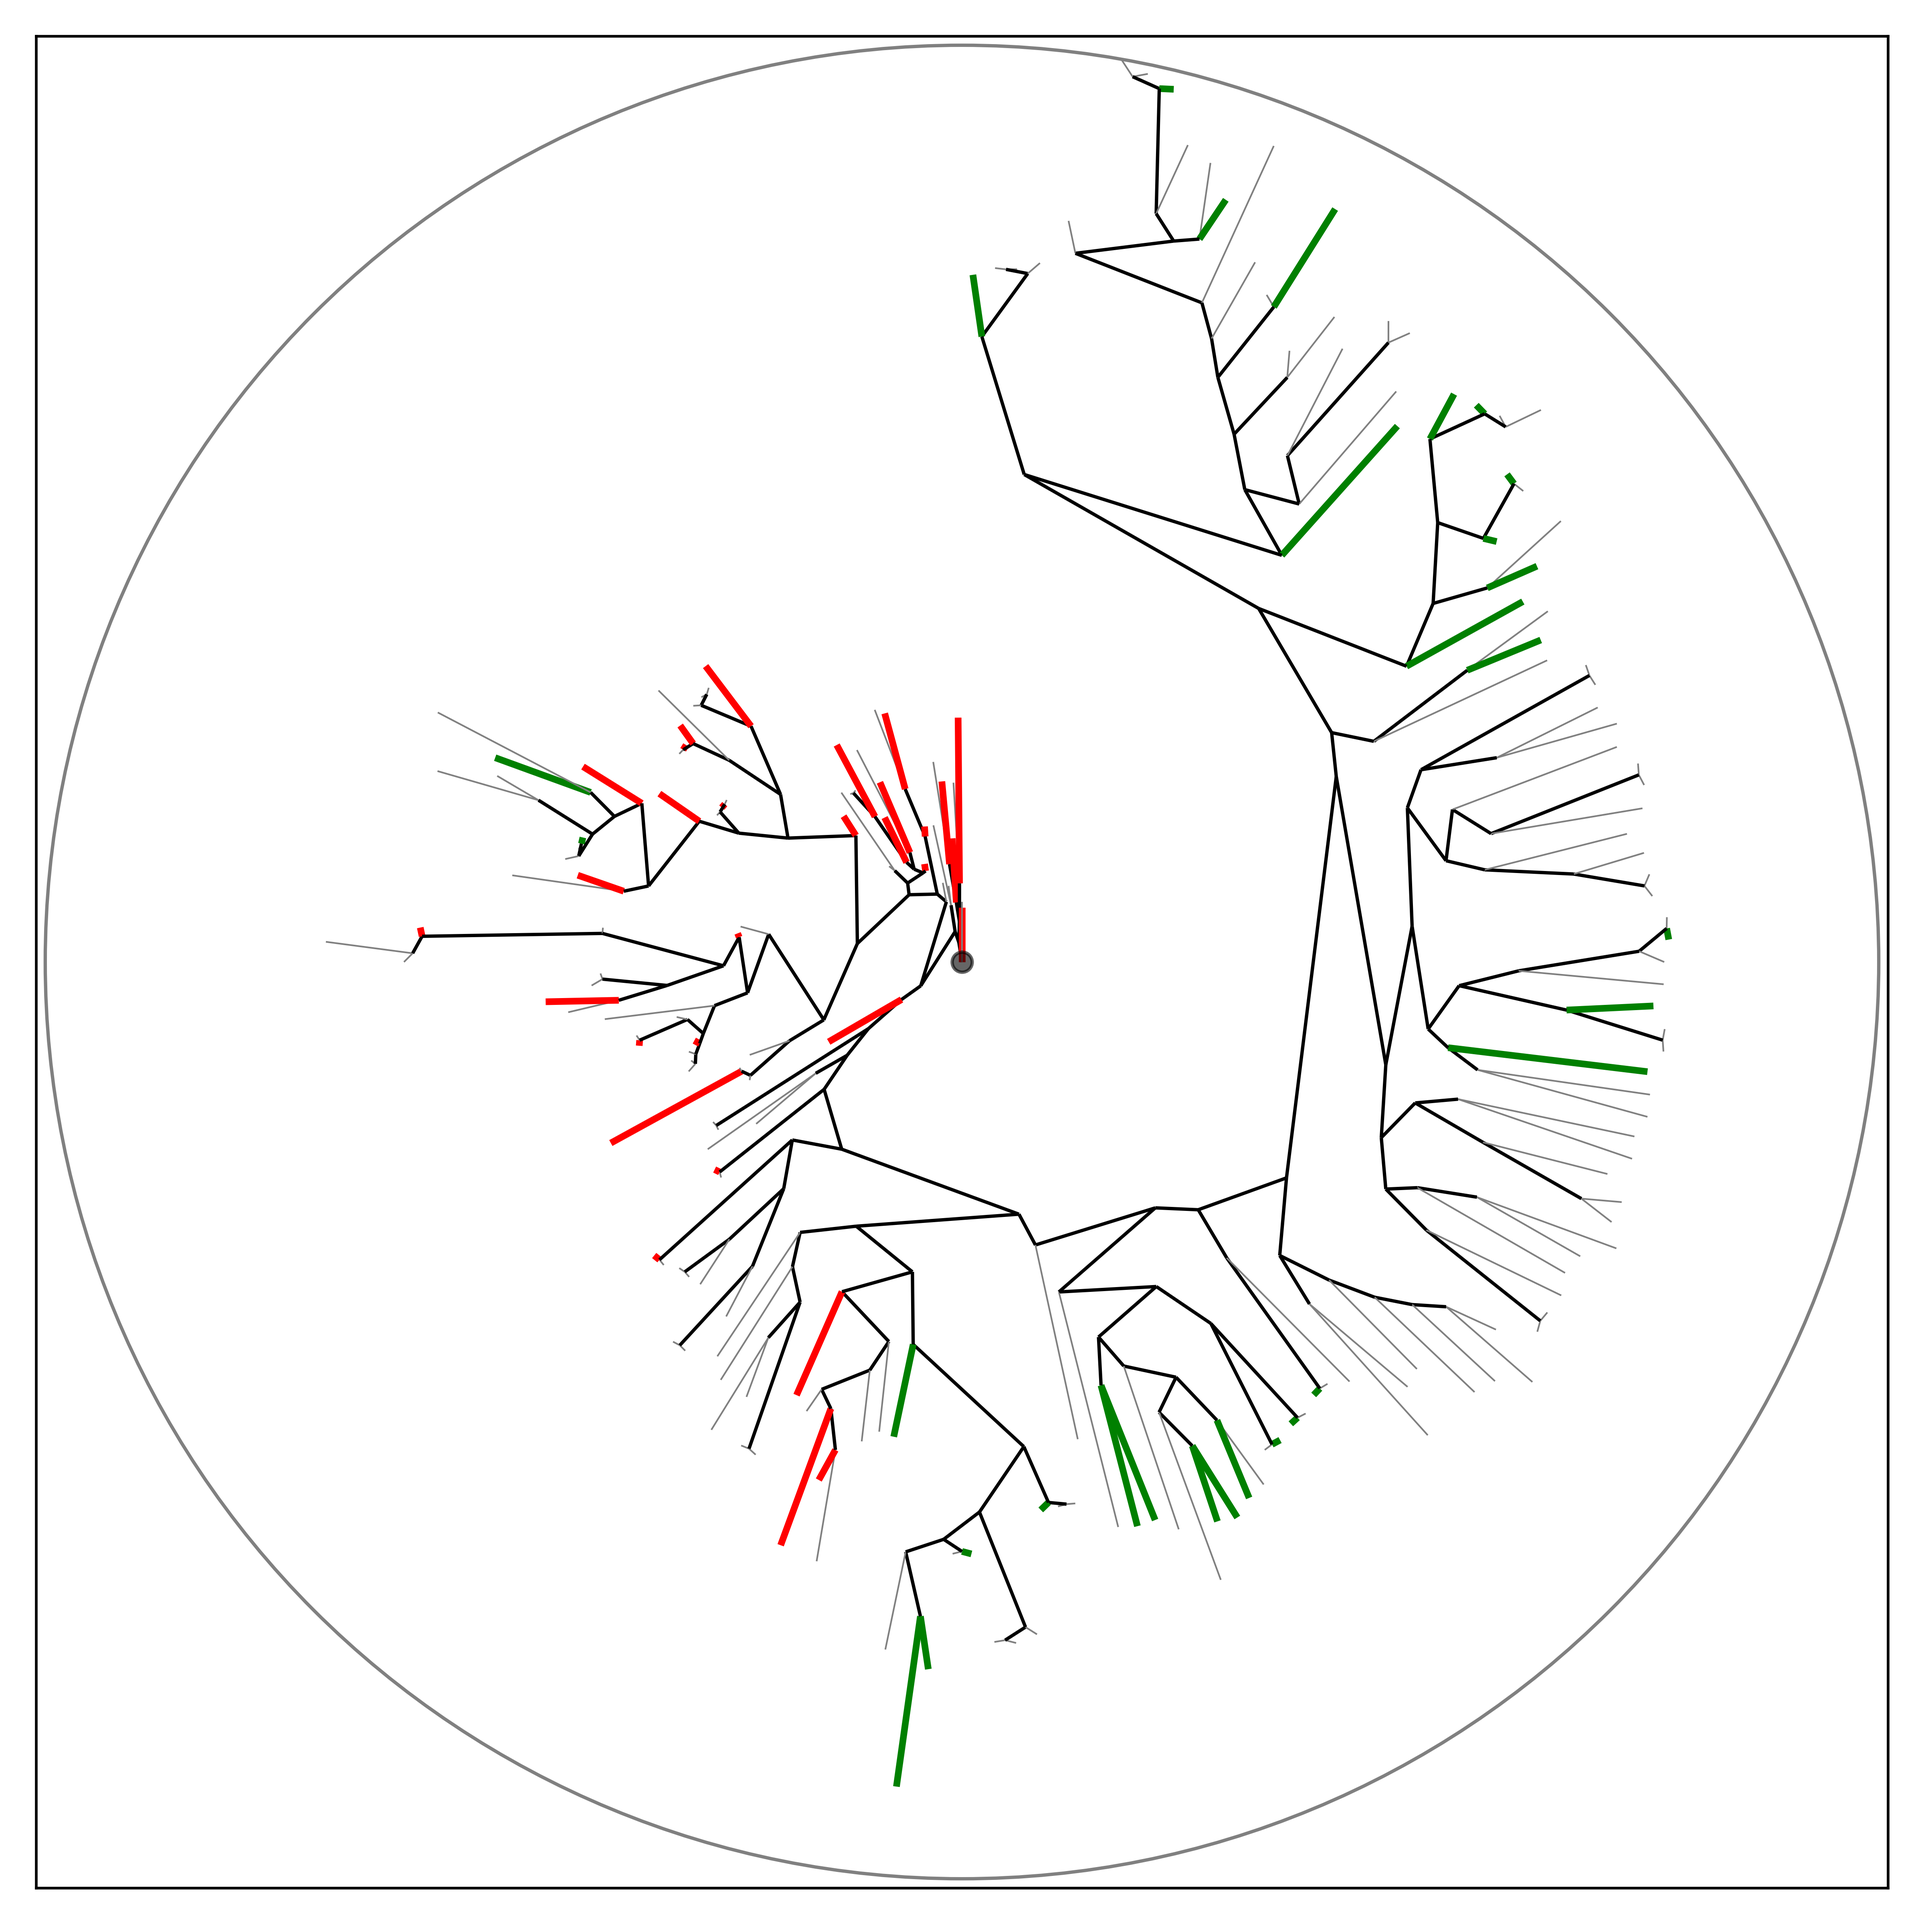
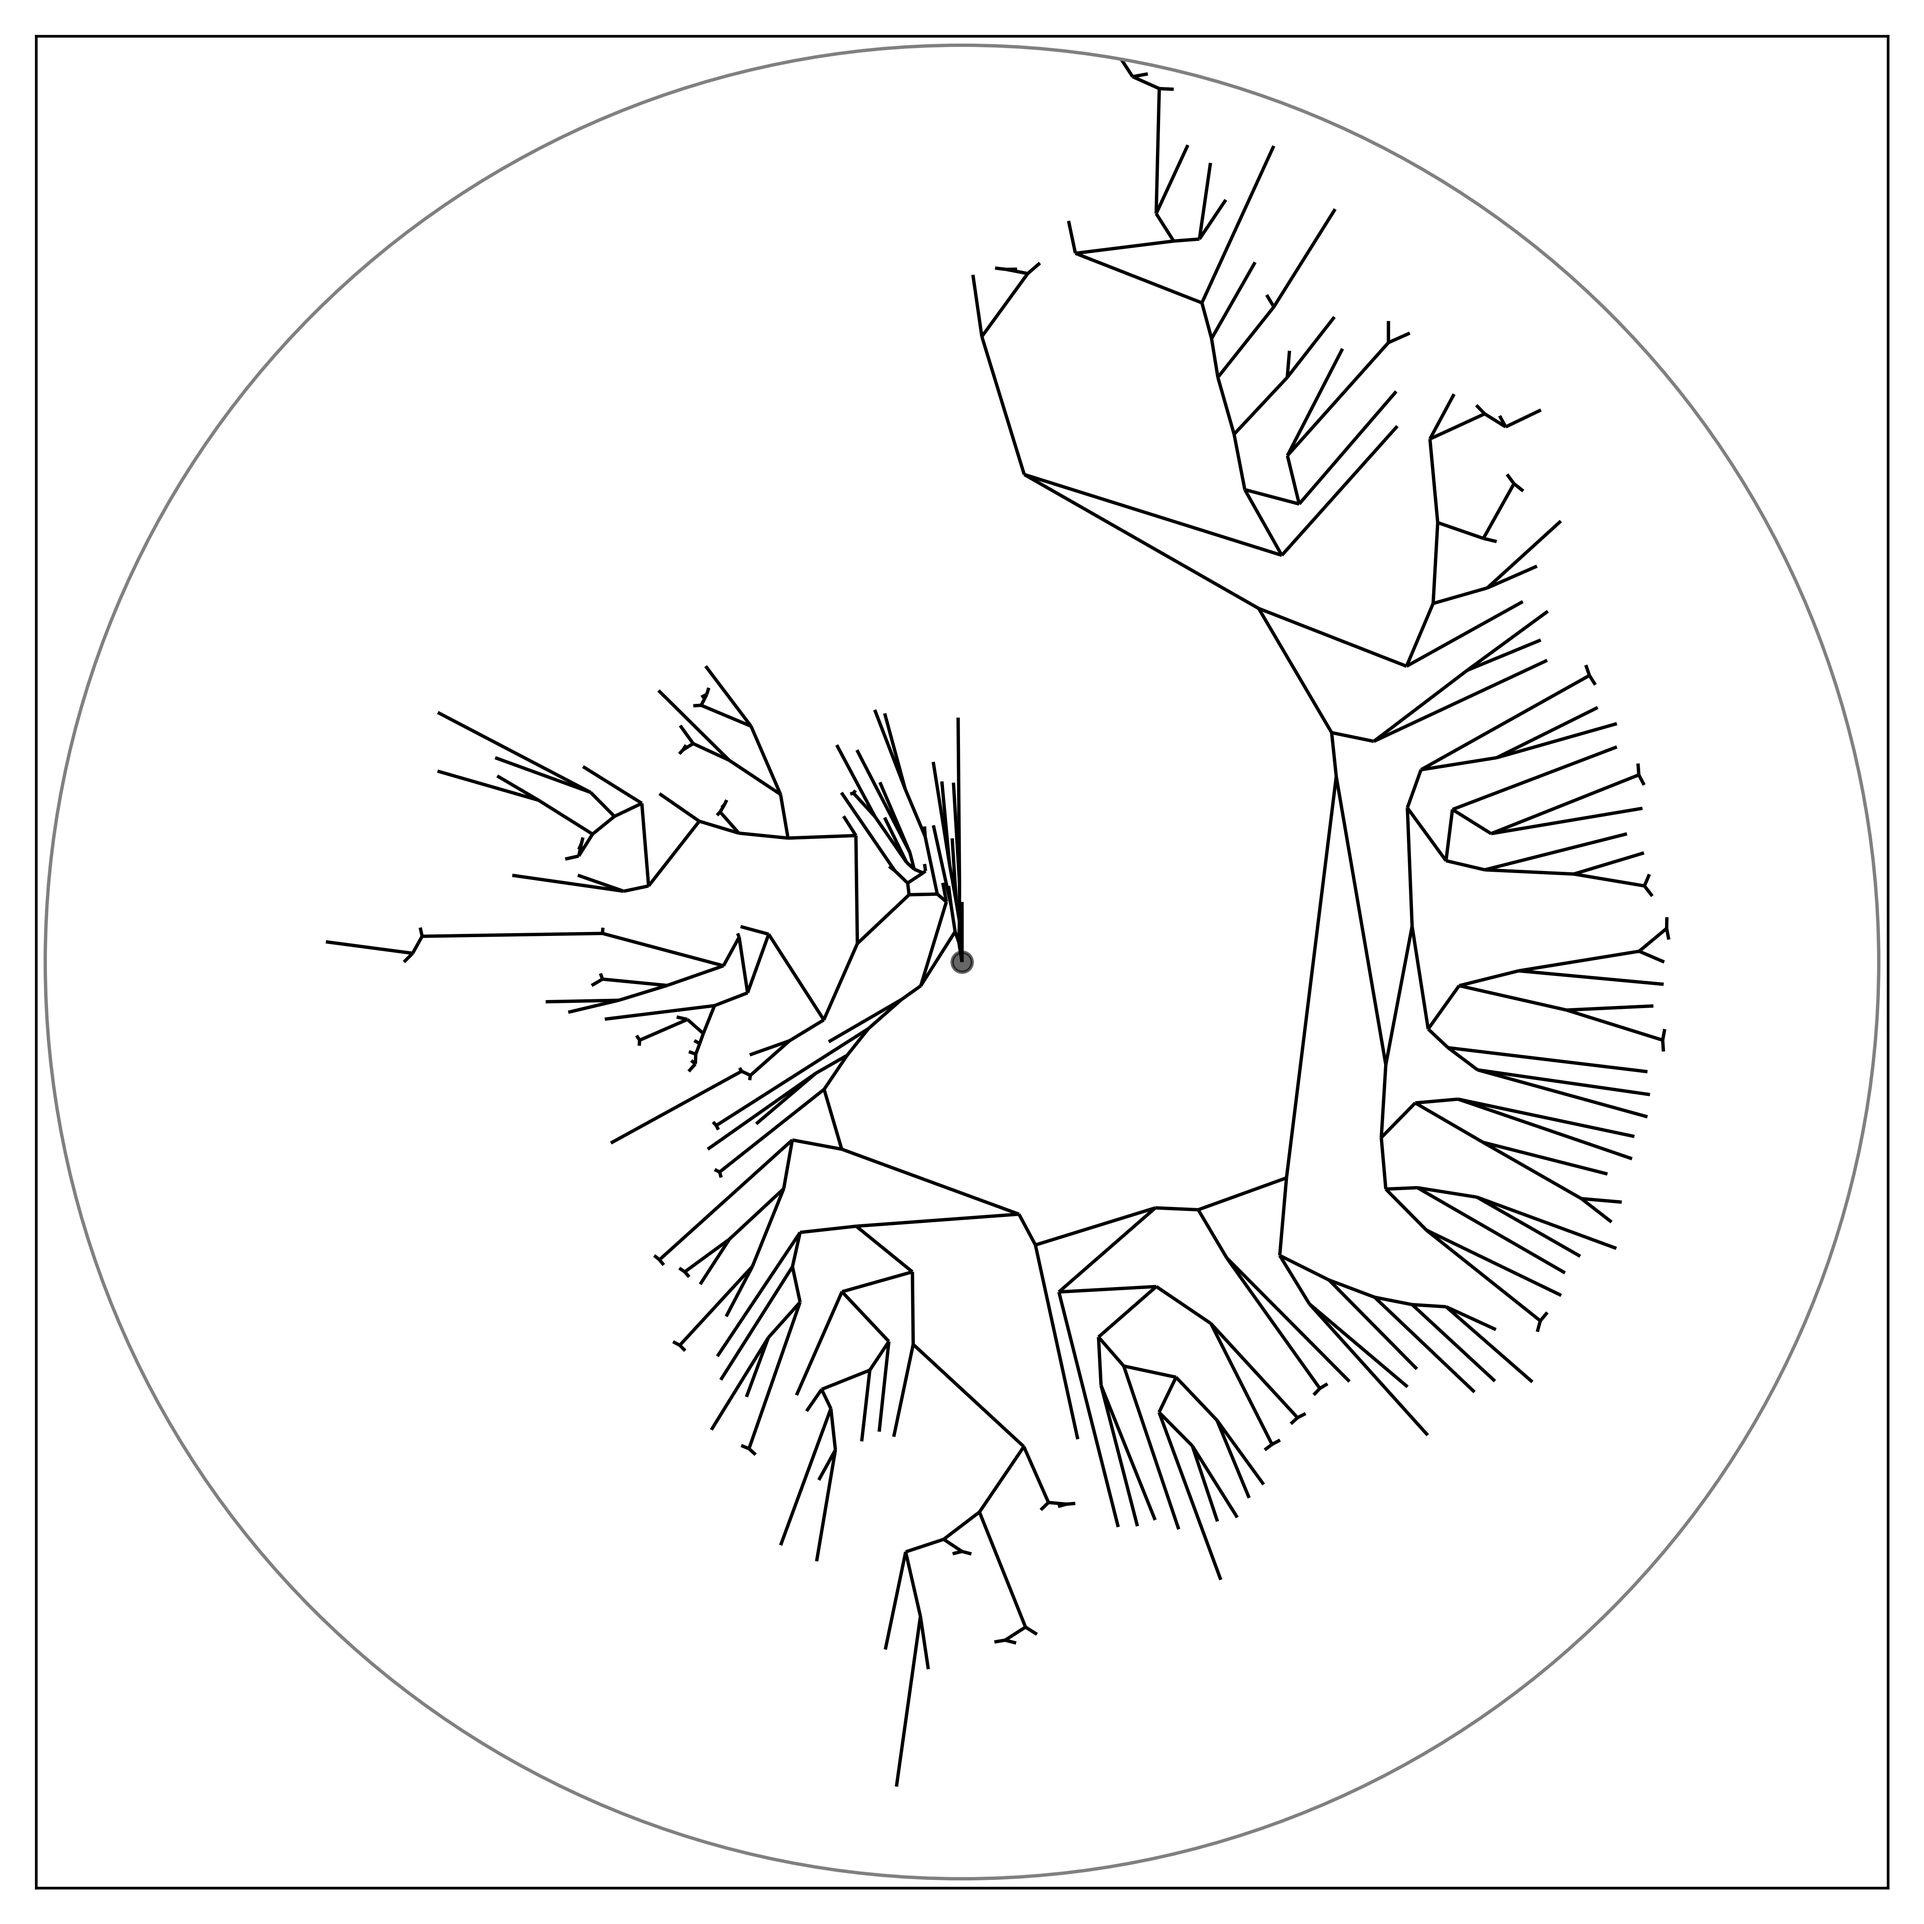
Fixed some bugs

diff --git a/nx.test.py b/nx.test.py
@@ -18,7 +18,7 @@ G = nx.Graph()
 G.add_weighted_edges_from(weighted_edges)
 pos = trans_pos(hierarchy_pos(G,'root',),G,True)
 fig, subax1 = plt.subplots(figsize = (8, 8))
-group = pd.read_csv('tag_1.csv',sep=r'\t',index_col=1,engine='python').fillna('others')
+# group = pd.read_csv('tag_1.csv',sep=r'\t',index_col=1,engine='python').fillna('others')
 if False:
     texts = []
     for i,loc in pos.items():
@@ -36,12 +36,12 @@ for i, edge in enumerate(G.edges()):
     u, v = edge
     u = model.mapping[int(u)] if u!='root' else 'root'
     v = model.mapping[int(v)] if v!='root' else 'root'
-    if u in group.index:
-        edge_colors[i] = color_dict[group.loc[u]['group']]
-        arrowsize[i] = size_dict[group.loc[u]['group']]
-    elif v in group.index:
-        edge_colors[i] = color_dict[group.loc[v]['group']]
-        arrowsize[i] = size_dict[group.loc[v]['group']]
+    # if u in group.index:
+    #     edge_colors[i] = color_dict[group.loc[u]['group']]
+    #     arrowsize[i] = size_dict[group.loc[u]['group']]
+    # elif v in group.index:
+    #     edge_colors[i] = color_dict[group.loc[v]['group']]
+    #     arrowsize[i] = size_dict[group.loc[v]['group']]
 nx.draw_networkx_nodes(G, pos, node_shape=['s'])
 # nx.draw_networkx_labels(G, pos,)
 nx.draw_networkx_edges(G, pos,alpha=1,edge_color=edge_colors,width=arrowsize)
